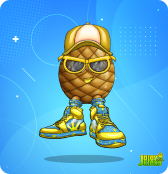
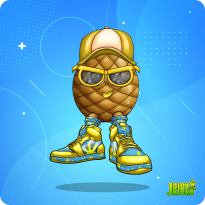
4cards  my juicy preview

diff --git a/src/components/HomeDashboard/my-juicy.scss b/src/components/HomeDashboard/my-juicy.scss
@@ -1,10 +1,12 @@
 .my-juicy-container {
   .card {
     transition: all 0.5s;
+    height: 100%;
   }
   .card-1 {
     z-index: 3;
-    @apply relative w-3/4 h-auto top-0 right-0;
+
+    @apply absolute w-3/4 top-0 right-0;
   }
   .card-2 {
     z-index: 2;
@@ -16,20 +18,34 @@
     @apply absolute w-3/4 top-0;
     left: 0%;
   }
+  .card-4 {
+    height: 100%;
+    z-index: 1;
+    @apply absolute w-3/4 top-0;
+    right: 0%;
+  }
   &:hover {
     .card-1 {
-      transform: scale(0.5) translateX(25%) translateY(-55%);
+      top: 0;
+      right: 0;
+
+      transform: scale(0.4) translateX(20%) translateY(-50%);
     }
 
     .card-2 {
-      left: 50%;
-      top: 50%;
-      transform: scale(0.5) translateY(-155%) translateX(-150%);
+      top: 0;
+      left: 0%;
+      transform: scale(0.4) translateX(-20%) translateY(-50%);
     }
     .card-3 {
-      left: 50%;
       top: 50%;
-      transform: scale(0.5) translateY(-50%) translateX(-95%);
+      left: 0%;
+      transform: scale(0.4) translateX(-20%) translateY(-50%);
+    }
+    .card-4 {
+      top: 50%;
+      right: 0;
+      transform: scale(0.4) translateX(20%) translateY(-50%);
     }
   }
 }

diff --git a/src/components/HomeDashboard/MyJuicy.jsx b/src/components/HomeDashboard/MyJuicy.jsx
@@ -15,11 +15,15 @@ export default function MyJuicy() {
       imgSrc: "assets/cards/pineapple.png",
       alt: "pineapple",
     },
+    {
+      imgSrc: "assets/cards/cherry.png",
+      alt: "cherry",
+    },
   ];
   return (
     <div className="nav-grid-item">
-      <div className="flex flex-col gap-5">
-        <div className="relative flex justify-end my-juicy-container">
+      <div className="flex flex-col justify-between h-full w-full gap-5">
+        <div className="relative flex  my-juicy-container w-full h-full flex-grow">
           {cards.map((card, i) => (
             <img
               key={i}

diff --git a/src/pages/Login/Login.jsx b/src/pages/Login/Login.jsx
@@ -44,7 +44,7 @@ export default function Login(props) {
         </div>
       </div>
       <img
-        className="w-2/3 bottom-1/2 left-1/2 absolute -translate-x-1/2 translate-y-2/3 z-[1]"
+        className="w-1/2 bottom-1/2 left-1/2 absolute -translate-x-1/2 translate-y-2/3 z-[1]"
         src="assets/gang.png"
         alt="gang"
       />
